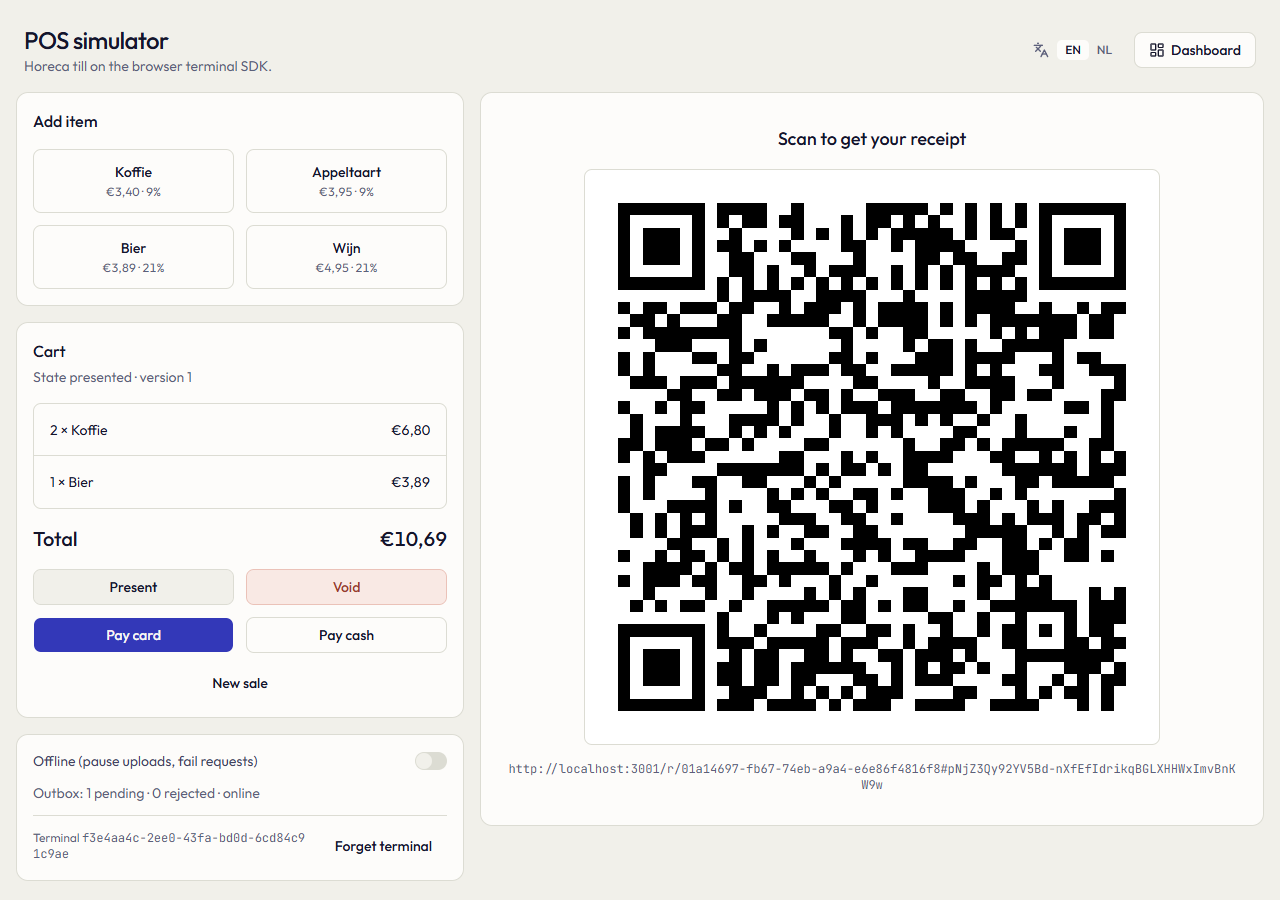
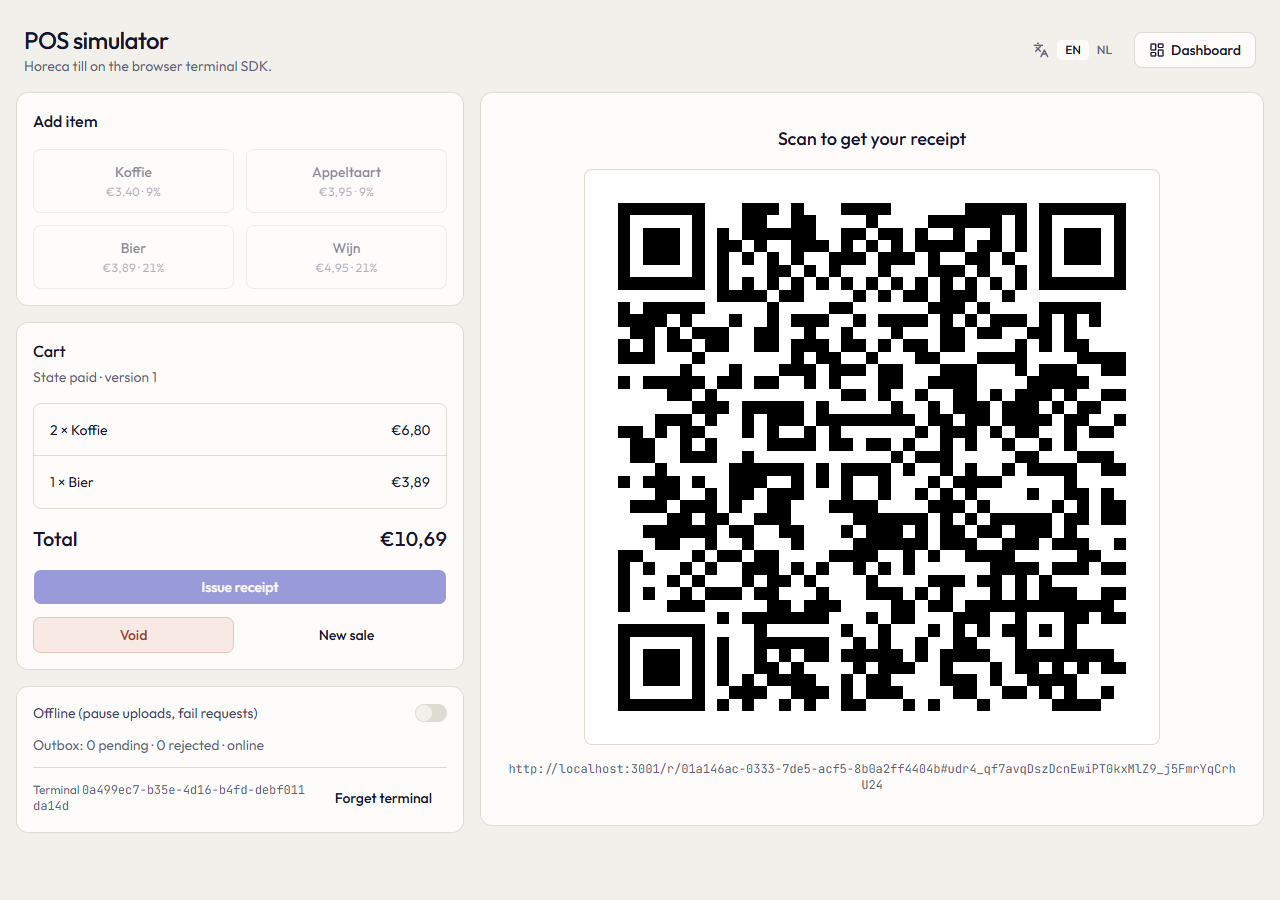
Issued receipt means paid: simulator issues directly, no pre-bill or pay steps; wallet login is a plain demo form
Simulator: one Issue receipt button (state paid), Void kept. Wallet: no pre-bill banner, no final badge, no presented filter. Demo mode: wallet signs in as the demo buyer without a code. E2E, RUNNING.md and README updated.

diff --git a/e2e/buyer-journey.spec.ts b/e2e/buyer-journey.spec.ts
@@ -18,33 +18,33 @@ async function buyerApiToken(email: string): Promise<string> {
   return body.token;
 }
 
-test('buyer journey on a phone: pre-bill, save, pay, exactly one encrypted push', async ({ browser, page }) => {
+test('buyer journey on a phone: issued receipt, save, void, exactly one encrypted push', async ({ browser, page }) => {
   const world = await createWorld();
   const buyerEmail = uniqueEmail('buyer');
 
-  // --- till (desktop): dashboard login, demo terminal, a sale shown as pre-bill ---
+  // --- till (desktop): dashboard login, demo terminal, a sale issued as paid ---
   await openSimulator(page, world);
   await page.getByTestId('sim-add-koffie').click();
   await page.getByTestId('sim-add-koffie').click();
   await page.getByTestId('sim-add-bier').click();
   await expect(page.getByTestId('sim-total')).toHaveText(/10[.,]69/);
-  await page.getByTestId('sim-present').click();
-  await expect(page.getByTestId('sim-state')).toHaveText('presented');
+  await page.getByTestId('sim-issue').click();
+  await expect(page.getByTestId('sim-state')).toHaveText('paid');
   await expect(page.getByTestId('sim-qr').locator('svg')).toBeVisible();
   const qr = await qrUrlOf(page);
-  await expectServerHas(page, qr.receiptId, 1, 'presented');
+  await expectServerHas(page, qr.receiptId, 1, 'paid');
   await shot(page, 'qr-on-simulator');
 
   // --- phone: iPhone 13 descriptor opens the URL taken from the QR ---
   const phone = await newPhone(browser);
   const m = await phone.newPage();
   await m.goto(qr.url);
-  await expect(m.getByTestId('presented-banner')).toContainText('Not a final receipt');
+  await expect(m.getByTestId('presented-banner'), 'no pre-bill: an issued receipt is paid').toHaveCount(0);
   await expect(m.getByTestId('receipt-line')).toHaveCount(2);
   await expect(m.getByTestId('confirm-sheet'), 'logged-out visitors get no sheet').toHaveCount(0);
   expect(m.url(), 'the secret is stripped from the address bar').not.toContain('#');
   expect(await m.evaluate(() => location.hash)).toBe('');
-  await shot(m, 'prebill-banner-phone');
+  await shot(m, 'receipt-on-phone');
 
   // log in with the code Mailpit received, come back to the receipt, confirm "Save this receipt?"
   await m.getByTestId('save-to-wallet').click();
@@ -61,10 +61,9 @@ test('buyer journey on a phone: pre-bill, save, pay, exactly one encrypted push'
   await m.goto(`${URLS.wallet}/`);
   const item = m.locator(`[data-testid="receipt-item"][data-receipt-id="${qr.receiptId}"]`);
   await expect(item).toBeVisible();
-  await expect(item).toHaveAttribute('data-state', 'presented');
+  await expect(item).toHaveAttribute('data-state', 'paid');
   await shot(m, 'wallet-with-receipt');
   await item.click();
-  await expect(m.getByTestId('presented-banner')).toBeVisible();
   await expect(m.getByTestId('receipt-view')).toHaveAttribute('data-version', '1');
 
   // --- a push subscription with real keys, registered the way the wallet does it ---
@@ -78,19 +77,18 @@ test('buyer journey on a phone: pre-bill, save, pay, exactly one encrypted push'
     });
     expect(subscribed.status).toBe(201);
 
-    // --- the till pays: version 2, final in NL ---
-    await page.getByTestId('sim-pay-card').click();
-    await expect(page.getByTestId('sim-state')).toHaveText('paid');
+    // --- the till voids the receipt: version 2 ---
+    await page.getByTestId('sim-void').click();
+    await expect(page.getByTestId('sim-state')).toHaveText('void');
     await expect(page.getByTestId('sim-version')).toHaveText('2');
-    await expectServerHas(page, qr.receiptId, 2, 'paid');
+    await expectServerHas(page, qr.receiptId, 2, 'void');
 
     await m.reload();
-    await expect(m.getByTestId('final-badge')).toBeVisible();
-    await expect(m.getByTestId('receipt-view')).toHaveAttribute('data-state', 'paid');
+    await expect(m.getByTestId('void-banner')).toBeVisible();
+    await expect(m.getByTestId('receipt-view')).toHaveAttribute('data-state', 'void');
     await expect(m.getByTestId('receipt-view')).toHaveAttribute('data-version', '2');
-    await expect(m.getByTestId('presented-banner')).toHaveCount(0);
     await expect(m.getByTestId('receipt-total')).toContainText('10.69');
-    await shot(m, 'final-version-after-paying');
+    await shot(m, 'voided-receipt');
 
     // --- push: exactly one, encrypted, for version 2 ---
     await expect.poll(() => sub.received.length, { timeout: 45_000, message: 'worker delivers the push' }).toBeGreaterThanOrEqual(1);
@@ -105,7 +103,7 @@ test('buyer journey on a phone: pre-bill, save, pay, exactly one encrypted push'
       expect(push.body.includes(Buffer.from(plain, 'utf8')), `ciphertext must not contain "${plain}" as UTF-8`).toBe(false);
     }
     const payload = sub.decrypt(push);
-    expect(payload).toMatchObject({ receiptId: qr.receiptId, version: 2, final: true });
+    expect(payload).toMatchObject({ receiptId: qr.receiptId, version: 2 });
     expect(Object.keys(payload).sort()).toEqual(['body', 'final', 'receiptId', 'title', 'version']);
   } finally {
     await sub.close();

diff --git a/apps/merchant-web/app/composables/useSimulator.ts b/apps/merchant-web/app/composables/useSimulator.ts
@@ -69,7 +69,8 @@ export function useSimulator() {
   const state = computed(() => current.value?.crf.state ?? null);
   const total = computed(() => (current.value ? current.value.crf.totals.gross : cart.value.reduce((s, l) => s + l.unitPrice * l.qty, 0)));
   const rounding = computed(() => current.value?.crf.totals.rounding ?? 0);
-  const editable = computed(() => state.value === null || state.value === 'presented');
+  // a receipt is issued once, already paid: nothing is edited afterwards
+  const editable = computed(() => state.value === null);
 
   async function show(receiptId: string, qrUrl?: string) {
     const r = await store?.getReceipt(receiptId);
@@ -166,44 +167,20 @@ export function useSimulator() {
     localStorage.removeItem(CURRENT_KEY);
   }
 
-  /** Add item. While the bill is presented, the change goes out as a new live version. */
   function addItem(sku: string) {
-    return run(async () => {
-      const p = PRODUCTS.find((x) => x.sku === sku);
-      if (!p || !editable.value) return;
-      const line = cart.value.find((l) => l.sku === sku);
-      if (line) line.qty += 1;
-      else cart.value.push({ sku: p.sku, description: p.label, unitPrice: p.unitPrice, vatRate: p.vatRate, qty: 1 });
-      if (current.value && sdk) {
-        await sdk.addVersion(current.value.receiptId, { state: 'presented', lines: lines.value });
-        await show(current.value.receiptId, current.value.qrUrl);
-      }
-    });
+    const p = PRODUCTS.find((x) => x.sku === sku);
+    if (!p || !editable.value) return;
+    const line = cart.value.find((l) => l.sku === sku);
+    if (line) line.qty += 1;
+    else cart.value.push({ sku: p.sku, description: p.label, unitPrice: p.unitPrice, vatRate: p.vatRate, qty: 1 });
   }
 
-  function present() {
-    return run(async () => {
-      if (!sdk || cart.value.length === 0) return;
-      const draft: Draft = { state: 'presented', lines: lines.value };
-      if (current.value) {
-        await sdk.addVersion(current.value.receiptId, draft);
-        await show(current.value.receiptId, current.value.qrUrl);
-      } else {
-        await show((await sdk.createReceipt(draft)).receiptId);
-      }
-    });
-  }
-
-  function pay(method: 'card' | 'cash') {
+  /** Issues the receipt: the sale is taken as paid (the shop only issues a receipt after it was paid). */
+  function issue() {
     return run(async () => {
       if (!sdk || cart.value.length === 0 || !editable.value) return;
-      const draft: Draft = { state: 'paid', lines: lines.value, payments: [{ method }] };
-      if (current.value) {
-        await sdk.addVersion(current.value.receiptId, draft);
-        await show(current.value.receiptId, current.value.qrUrl);
-      } else {
-        await show((await sdk.createReceipt(draft)).receiptId);
-      }
+      const draft: Draft = { state: 'paid', lines: lines.value, payments: [{ method: 'card' }] };
+      await show((await sdk.createReceipt(draft)).receiptId);
     });
   }
 
@@ -222,5 +199,5 @@ export function useSimulator() {
     else sdk.startFlusher({ idleMs: 500 });
   }
 
-  return { creds, cart, current, qrSvg, offline, stats, error, busy, state, total, rounding, editable, init, dispose, setupDemoTerminal, forgetTerminal, newSale, addItem, present, pay, voidSale, setOffline };
+  return { creds, cart, current, qrSvg, offline, stats, error, busy, state, total, rounding, editable, init, dispose, setupDemoTerminal, forgetTerminal, newSale, addItem, issue, voidSale, setOffline };
 }

diff --git a/apps/wallet/app/components/ReceiptView.vue b/apps/wallet/app/components/ReceiptView.vue
@@ -1,5 +1,5 @@
 <script setup lang="ts">
-import { Ban, CircleCheck, TriangleAlert } from '@lucide/vue';
+import { Ban } from '@lucide/vue';
 import type { ReceiptDetail } from '~/utils/api-schemas';
 import { formatDateTime, formatEuro, formatQty } from '~/utils/format';
 
@@ -16,32 +16,13 @@ const viewingOld = computed(() => shown.value.version !== latest.value.version);
 <template>
   <article class="space-y-4" data-testid="receipt-view" :data-state="shown.state" :data-version="shown.version">
     <p
-      v-if="shown.state === 'presented'"
-      role="status"
-      data-testid="presented-banner"
-      class="rounded-xl border-2 border-warning bg-warning-soft p-4 text-center text-lg font-semibold text-warning"
-    >
-      <TriangleAlert class="mx-auto mb-1 size-6" aria-hidden="true" />
-      {{ t('receipt.notFinal') }}
-      <span class="mt-1 block text-sm font-normal text-text-secondary">{{ t('receipt.notFinalBody') }}</span>
-    </p>
-    <p
-      v-else-if="shown.state === 'void'"
+      v-if="shown.state === 'void'"
       role="status"
       data-testid="void-banner"
       class="rounded-xl border-2 border-danger bg-danger-soft p-4 text-center text-lg font-semibold text-danger"
     >
       <Ban class="mx-auto mb-1 size-6" aria-hidden="true" />
       {{ t('receipt.void') }}
-    </p>
-    <p
-      v-else-if="detail.final && !viewingOld"
-      role="status"
-      data-testid="final-badge"
-      class="flex items-center justify-center gap-2 rounded-xl border border-success-border bg-success-soft p-3 font-semibold text-success"
-    >
-      <CircleCheck class="size-5" aria-hidden="true" />
-      {{ t('receipt.final') }}
     </p>
     <p v-if="viewingOld" role="status" data-testid="old-version-note" class="rounded-xl border border-border bg-muted p-3 text-center text-sm text-text-secondary">
       {{ t('receipt.oldVersion', { shown: shown.version, latest: latest.version }) }}

diff --git a/apps/merchant-web/app/pages/simulator.vue b/apps/merchant-web/app/pages/simulator.vue
@@ -62,11 +62,9 @@ onBeforeUnmount(() => sim.dispose());
               <div class="flex justify-between text-xl font-medium"><span>{{ t('common.total') }}</span><span class="tabular-nums" data-testid="sim-total">{{ euro(sim.total.value + sim.rounding.value) }}</span></div>
             </div>
             <div class="grid grid-cols-2 gap-3">
-              <Button variant="outline" :disabled="sim.busy.value || !sim.cart.value.length || !sim.editable.value" data-testid="sim-present" @click="sim.present()">{{ t('sim.present') }}</Button>
+              <Button class="col-span-2" :disabled="sim.busy.value || !sim.cart.value.length || !sim.editable.value" data-testid="sim-issue" @click="sim.issue()">{{ t('sim.issue') }}</Button>
               <Button variant="destructive" :disabled="sim.busy.value || !sim.current.value || sim.state.value === 'void'" data-testid="sim-void" @click="sim.voidSale()">{{ t('sim.void') }}</Button>
-              <Button :disabled="sim.busy.value || !sim.cart.value.length || !sim.editable.value" data-testid="sim-pay-card" @click="sim.pay('card')">{{ t('sim.payCard') }}</Button>
-              <Button variant="outline" :disabled="sim.busy.value || !sim.cart.value.length || !sim.editable.value" data-testid="sim-pay-cash" @click="sim.pay('cash')">{{ t('sim.payCash') }}</Button>
-              <Button variant="ghost" class="col-span-2" data-testid="sim-new-sale" @click="sim.newSale()">{{ t('sim.newSale') }}</Button>
+              <Button variant="ghost" data-testid="sim-new-sale" @click="sim.newSale()">{{ t('sim.newSale') }}</Button>
             </div>
             <AppErrorNote v-if="sim.error.value" data-testid="sim-error">{{ sim.error.value }}</AppErrorNote>
           </CardContent>

diff --git a/apps/wallet/app/pages/index.vue b/apps/wallet/app/pages/index.vue
@@ -135,7 +135,6 @@ onBeforeUnmount(() => clearTimeout(debounce));
               data-testid="filter-state"
             >
               <option value="">{{ t('wallet.filterAll') }}</option>
-              <option value="presented">{{ t('wallet.filterPresented') }}</option>
               <option value="paid">{{ t('wallet.filterPaid') }}</option>
               <option value="void">{{ t('wallet.filterVoid') }}</option>
             </select>
@@ -191,9 +190,7 @@ onBeforeUnmount(() => clearTimeout(debounce));
                 <span class="block truncate font-medium">{{ r.merchantName }}</span>
                 <span class="mt-0.5 flex items-center gap-2 text-sm text-text-secondary">
                   {{ formatTime(r.createdAt, locale) }}
-                  <Badge v-if="r.state === 'presented'" variant="warning">{{ t('wallet.badgePresented') }}</Badge>
-                  <Badge v-else-if="r.state === 'void'" variant="danger">{{ t('wallet.badgeVoid') }}</Badge>
-                  <Badge v-else-if="r.final" variant="success">{{ t('wallet.badgeFinal') }}</Badge>
+                  <Badge v-if="r.state === 'void'" variant="danger">{{ t('wallet.badgeVoid') }}</Badge>
                 </span>
               </span>
               <span class="shrink-0 font-mono font-medium tabular-nums">{{ formatEuro(r.total, locale) }}</span>

diff --git a/apps/wallet/app/components/EmailLogin.vue b/apps/wallet/app/components/EmailLogin.vue
@@ -33,7 +33,7 @@ async function sendCode() {
   busy.value = true;
   error.value = null;
   try {
-    if (demoEmail.value && email.value.trim().toLowerCase() === demoEmail.value) {
+    if (demoEmail.value) {
       await wallet.demoLogin(demoEmail.value);
       emit('done');
       return;
@@ -79,7 +79,7 @@ async function verify() {
           data-testid="login-email"
         />
       </div>
-      <Button type="submit" size="lg" class="w-full" :disabled="busy" data-testid="login-send">{{ demoEmail && email.trim().toLowerCase() === demoEmail ? t('login.signIn') : t('login.sendCode') }}</Button>
+      <Button type="submit" size="lg" class="w-full" :disabled="busy" data-testid="login-send">{{ demoEmail ? t('login.signIn') : t('login.sendCode') }}</Button>
       <Button v-if="demoEmail" type="button" size="lg" variant="secondary" class="w-full" :disabled="busy" data-testid="login-fill-demo" @click="email = demoEmail ?? ''">{{ t('login.fillDemo') }}</Button>
     </form>
     <form v-else class="space-y-4" @submit.prevent="verify">

diff --git a/e2e/buyer-offline.spec.ts b/e2e/buyer-offline.spec.ts
@@ -20,8 +20,8 @@ test('buyer offline: link opens as Arriving, claim completes online, saved recei
     store: new MemoryStore(),
   });
   const lines = [{ sku: 'koffie', description: 'Koffie', unitPrice: 340, vatRate: 9 as const, qty: 1 }];
-  const saved = await sdk.createReceipt({ state: 'presented', lines });
-  const arriving = await sdk.createReceipt({ state: 'presented', lines: [{ sku: 'bier', description: 'Bier', unitPrice: 389, vatRate: 21 as const, qty: 2 }] });
+  const saved = await sdk.createReceipt({ state: 'paid', lines });
+  const arriving = await sdk.createReceipt({ state: 'paid', lines: [{ sku: 'bier', description: 'Bier', unitPrice: 389, vatRate: 21 as const, qty: 2 }] });
   expect(await sdk.flush()).toMatchObject({ sent: 2, rejected: 0, retry: false });
 
   const phone = await newPhone(browser);

diff --git a/e2e/merchant-offline.spec.ts b/e2e/merchant-offline.spec.ts
@@ -13,7 +13,7 @@ test('merchant offline: 3 sales while the till is offline all reach the dashboar
 
   for (const sku of ['koffie', 'appeltaart', 'bier']) {
     await page.getByTestId(`sim-add-${sku}`).click();
-    await page.getByTestId('sim-pay-card').click();
+    await page.getByTestId('sim-issue').click();
     await expect(page.getByTestId('sim-state')).toHaveText('paid');
     await page.getByTestId('sim-new-sale').click();
     await expect(page.getByTestId('sim-state')).toHaveText('none');

diff --git a/apps/merchant-web/app/i18n/nl.ts b/apps/merchant-web/app/i18n/nl.ts
@@ -194,6 +194,7 @@ export const nl: Record<MessageKey, string> = {
   'sim.stateNone': 'geen',
   'sim.version': 'versie',
   'sim.empty': 'Leeg',
+  'sim.issue': 'Bon uitgeven',
   'sim.present': 'Tonen',
   'sim.void': 'Annuleren',
   'sim.payCard': 'Pinnen',

diff --git a/apps/merchant-web/app/i18n/en.ts b/apps/merchant-web/app/i18n/en.ts
@@ -206,6 +206,7 @@ export const en = {
   'sim.stateNone': 'none',
   'sim.version': 'version',
   'sim.empty': 'Empty',
+  'sim.issue': 'Issue receipt',
   'sim.present': 'Present',
   'sim.void': 'Void',
   'sim.payCard': 'Pay card',

diff --git a/RUNNING.md b/RUNNING.md
@@ -72,25 +72,24 @@ The dashboard login only works if the seed ran. If it doesn't recognise the owne
 1. In the same browser, open http://localhost:3000/simulator.
 2. Click **Set up demo terminal**. This needs the dashboard session from step 1. The browser generates the till's signing keys and registers the public key, and the till appears under **Dashboard → Terminals**.
 
-### Step 3: Sell and present the bill (cashier)
+### Step 3: Sell and issue the receipt (cashier)
 1. Click products (Koffie and Appeltaart at 9%, Bier and Wijn at 21%) to fill the cart.
-2. Click **Present**. A large QR code appears. This is the pre-bill (the "rekening"), version 1.
+2. Click **Issue receipt**. A large QR code appears. An issued receipt is taken as paid, so there is no pre-bill and no payment step.
 3. The receipt URL is printed under the QR: `http://localhost:3001/r/<id>#<secret>`.
 
 ### Step 4: Open the receipt as the buyer
 1. Copy the URL under the QR.
 2. Open it in a **different browser profile or an incognito window**, so the buyer's session stays separate from the shop owner's. For a phone-shaped view, turn on Chrome DevTools → device toolbar → iPhone.
-3. The receipt shows with a yellow **"Not a final receipt — this is the bill, the final receipt follows after payment"** banner. Note that the `#secret` part is gone from the address bar.
+3. The receipt shows. Note that the `#secret` part is gone from the address bar.
 
 ### Step 5: Save it to the wallet
 1. Click **Save to wallet**.
-2. Enter an email address: any new address creates an account, or use `buyer@example.test`.
-3. Open Mailpit at http://localhost:8025, copy the 6-digit code, and enter it.
-4. The **"Save this receipt?"** sheet shows the shop, total and time. Click **Save to wallet**; **Not mine** closes it without saving. The receipt is now in the wallet.
+2. In demo mode (the default in development) the login is a plain form: press **Fill in the demo account**, then **Sign in**. No code is needed. With `DEMO_MODE=false`, enter an email and the 6-digit code from Mailpit (http://localhost:8025) instead.
+3. The **"Save this receipt?"** sheet shows the shop, total and time. Click **Save to wallet**; **Not mine** closes it without saving. The receipt is now in the wallet.
 
-### Step 6: Change and pay (cashier)
-1. Back in the simulator: add an item, then **Present** again (this creates version 2). Then click **Pay card** or **Pay cash**. Pay cash rounds the total to 5 cents.
-2. Reload the receipt in the wallet. It shows the new version, marked final, with the version history. In the Netherlands, `paid` is the final state.
+### Step 6: Void (cashier)
+1. Back in the simulator: click **Void**. This creates version 2.
+2. Reload the receipt in the wallet. It shows the voided version, with the version history.
 3. **Dashboard → Archive** shows the same receipt with its versions. It shows **no** information about who saved it: that's the privacy model.
 
 ### Step 7: Offline demos (optional)
@@ -123,7 +122,7 @@ pnpm dev --env-mode=loose
 ```
 
 Then:
-1. On the laptop, open the simulator. It's still on `http://localhost:3000`, and the QR now points to the tunnel. Present a bill.
+1. On the laptop, open the simulator. It's still on `http://localhost:3000`, and the QR now points to the tunnel. Issue a receipt.
 2. Scan the QR with the **phone camera** and open the link. Then follow Steps 5–6 above on the phone. The login code still arrives in Mailpit on the laptop.
 3. **Use Android + Chrome for the smoothest demo.** On iPhone the link opens in Safari. That works for viewing and saving, but push needs the wallet added to the Home Screen first (iOS 16.4+), and the Home Screen app has separate storage from Safari.
 4. **Push:** in the wallet go to **Settings → push opt-in**, allow notifications, then pay the bill in the simulator. A notification should arrive. **Real push to a phone has not been verified yet.**

diff --git a/docs/FINDINGS.md b/docs/FINDINGS.md
@@ -55,7 +55,7 @@ Reset: `docker compose down -v && docker compose up -d && pnpm db:migrate && pnp
 | dashboard: TOTP login, create terminal, key shown once, revoke | 2.1 s |
 | merchant offline: 3 offline sales all reach the dashboard archive | 2.9 s |
 
-HTML report: `docs/e2e-report/index.html`. Screenshots in `docs/e2e-screenshots/`: `qr-on-simulator`, `prebill-banner-phone`, `save-receipt-sheet`, `wallet-with-receipt`, `final-version-after-paying`, `arriving-state`, `dashboard-archive`.
+HTML report: `docs/e2e-report/index.html`. Screenshots in `docs/e2e-screenshots/`: `qr-on-simulator`, `receipt-on-phone`, `save-receipt-sheet`, `wallet-with-receipt`, `voided-receipt`, `arriving-state`, `dashboard-archive`.
 
 ### Step 1 — walking skeleton
 
@@ -417,7 +417,7 @@ All numbers are copied from output I saw. Machine: macOS arm64, Docker compose (
 3. **Merchant offline** (`merchant-offline.spec.ts`): Offline toggle, 3 card sales (koffie, appeltaart, bier), `sim-pending` = 3, the dashboard archive (second tab) is empty; toggle off → outbox drains (0 pending, 0 rejected) → archive shows exactly 3 rows, all `paid`.
 4. **Dashboard** (`dashboard.spec.ts`): TOTP enrolment then logout and login with a freshly computed code; terminal created; key (43 chars) shown once, works against merchant-api (200); gone from the DOM after dismiss and after reload, never in the list API; two-step revoke → status `revoked` → merchant-api answers **401** for that key.
 
-Screenshots (overwritten each run): `docs/e2e-screenshots/{qr-on-simulator,prebill-banner-phone,save-receipt-sheet,wallet-with-receipt,final-version-after-paying,arriving-state,dashboard-archive}.png`. Report: `playwright-report/` (git-ignored) copied to `docs/e2e-report/` by `pnpm e2e:report`.
+Screenshots (overwritten each run): `docs/e2e-screenshots/{qr-on-simulator,receipt-on-phone,save-receipt-sheet,wallet-with-receipt,voided-receipt,arriving-state,dashboard-archive}.png`. Report: `playwright-report/` (git-ignored) copied to `docs/e2e-report/` by `pnpm e2e:report`.
 
 ## Flake and development failures (all understood)
 
